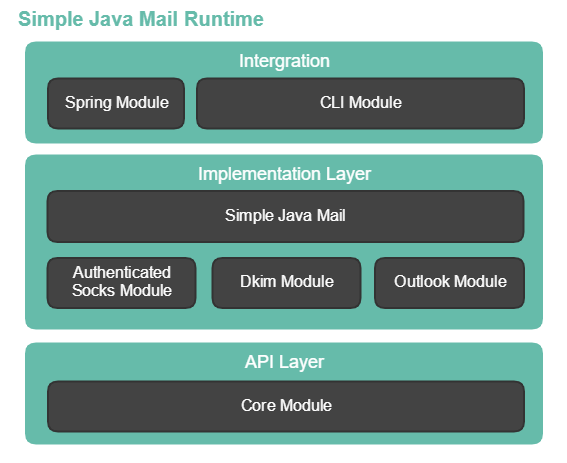
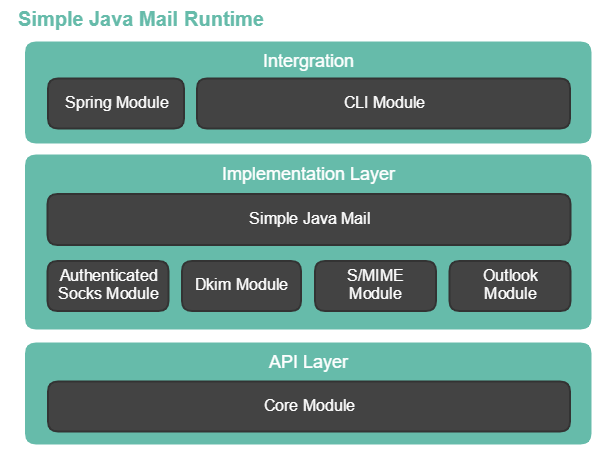
#187: Added documentation on S/MIME support

diff --git a/src/app/components/features/features.html b/src/app/components/features/features.html
@@ -57,6 +57,9 @@
       <li><a simplePageScroll href="#section-return-receipt">Configure delivery / read receipt</a></li>
       <li><a simplePageScroll href="#section-email-validation">Validating Email Addresses</a></li>
       <li><a simplePageScroll href="#section-converting">Converting between email formats</a></li>
+      <li><a simplePageScroll href="#section-smime">Reading S/MIME signed / encrypted attachments</a></li>
+        <li><a simplePageScroll href="#section-smime-merging" class="indent">S/MIME signed messages are merged by default</a></li>
+        <li><a simplePageScroll href="#section-smime-decryption" class="indent">Decrypting S/MIME attachments using certificate</a></li>
       <li><a simplePageScroll href="#section-bouncing-emails">Setting custom recipient for bouncing emails</a></li>
       <li><a simplePageScroll href="#section-reply-forward">Replying to and forwarding emails</a></li>
       <li><a simplePageScroll href="#section-proxy">Send using a proxy</a></li>
@@ -630,11 +633,11 @@ Session session = mailer.getSession();
 </code></pre>
     </div>
   </section>
-
-
+  
+  
   <a href="#section-dkim" id="section-dkim" class="section-link h2">&sect;</a>
   <h2>Signing emails with DKIM</h2>
-
+  
   <section>
     <div class="view">
       <p>
@@ -642,14 +645,7 @@ Session session = mailer.getSession();
         domain keys. It uses <a href="https://github.com/markenwerk/java-utils-mail-dkim">java-utils-mail-dkim</a> (dependency packaged along) to
         perform the DNS DKIM record check on the given domain.
       </p>
-      <p>DKIM is an optional feature and if you want to use it, you need to include the following dependency in your project:</p>
-      <pre><code class="small language-xml">&lt;dependency&gt;
-    &lt;groupId&gt;net.markenwerk&lt;/groupId&gt;
-    &lt;artifactId&gt;utils-mail-dkim&lt;/artifactId&gt;
-    &lt;version&gt;X.X.X&lt;/version&gt;
-&lt;/dependency&gt;</code></pre>
     </div>
-
     <div class="side">
 <pre><code>currentEmailBuilder.
     .signWithDomainKey(
@@ -662,6 +658,89 @@ mailer.sendMail(signedEmail);
       You can also directly use the helper method:
       <pre><code>Mailer.signMessageWithDKIM(mimeMessageToSign, emailContainingSigningDetails);</code></pre>
     </div>
+  </section>
+  
+  
+  <a href="#section-smime" id="section-smime" class="section-link h2">&sect;</a>
+  <h2>Reading S/MIME signed / encrypted attachments</h2>
+  
+  <section>
+    <div class="view">
+      <p>
+        Simple Java Mail can automatically decrypt
+        <a href="https://docs.ipswitch.com/moveit/central/onlineguide/en/MICSMIMEEmailOverview.htm">S/MIME signed messages</a>
+        or attachment and has some useful extras such as providing you with the metadata:
+      </p>
+      <p>S/MIME is an optional feature and if you want to use it, you need to include the following dependency in your project:</p>
+      <pre><code class="small language-xml">&lt;dependency&gt;
+    &lt;groupId&gt;org.simplejavamail&lt;/groupId&gt;
+    &lt;artifactId&gt;smime-module&lt;/artifactId&gt;
+    &lt;version&gt;X.X.X&lt;/version&gt;
+&lt;/dependency&gt;</code></pre>
+    </div>
+    <div class="side">
+<pre><code class="small">Email mergedEmail = EmailConverter.outlookMsgToEmail("yourSMIMEEncryptedMessage.msg"); // or
+Email mergedEmail = EmailConverter.emlToEmail("yourSMIMEEncryptedMessage.eml");
+
+// all attachments as-is:
+mergedEmail.getAttachments(); // smime.p7m, my-doc.docx
+// all attachments with the encrypted ones replaced:
+mergedEmail.getDecryptedAttachments(); // signed-email.eml, my-doc.docx
+
+// if the message itself was signed (rather than a independently signed attachment):
+OriginalSmimeDetails details = mergedEmail.getOriginalSmimeDetails();
+details.getSmimeMime(); // application/pkcs7-mime
+details.getSmimeType(); // signed-data, enveloped-data
+details.getSmimeName(); // smime.p7m
+details.getSmimeSignedBy(); // certificate-owner@domain.com
+</code></pre>
+    </div>
+  </section>
+  
+  
+  <a href="#section-smime-merging" id="section-smime-merging" class="section-link h3">&sect;</a>
+  <h3>S/MIME signed messages are merged by default</h3>
+  
+  <section>
+    <div class="view">
+      <p>
+        As an S/MIME signed message is actually nested as an attachment, the default behavior is to merge the S/MIME signed content into the root message.
+        This only happens if there was exactly one S/MIME signed attachment and the decrypted version is of type "message/rfc822".
+      </p>
+      <p>
+        This default behavior can be deactivated. For your convenience, the decrypted message is available as a separate Email instance:
+      </p>
+    </div>
+    
+    <div class="side">
+<pre><code class="small">Email nonMergedEmail = EmailBuilder
+                .copying(mergedEmail)
+                .clearSMIMESignedAttachmentMergingBehavior()
+                .buildEmail();
+  
+// or by configuring the intermediary builder:
+emailBuilder = EmailConverter.outlookMsgToEmailBuilder(msgFile); // or
+emailBuilder = EmailConverter.emlToEmailBuilder(emlFile);
+Email nonMergedEmail = emailBuilder
+                .notMergingSingleSMIMESignedAttachment()
+                .buildEmail();</code></pre>
+      You always have access to the nested decrypted message:
+      <pre><code class="small">mergedEmail.getSmimeSignedEmail();
+nonMergedEmail.getSmimeSignedEmail();
+</code></pre>
+    </div>
+  </section>
+  
+  
+  <a href="#section-smime-decryption" id="section-smime-decryption" class="section-link h3">&sect;</a>
+  <h3>Decrypting S/MIME attachments using certificate</h3>
+  
+  <section>
+    <p class="wide">
+      Under the hood, Simple Java Mail uses
+      <a href="https://github.com/markenwerk/java-utils-mail-smime">net.markenwerk:utils-mail-smime</a>
+      for S/MIME handling. For decryption using certificates, please refer to the instructions there.
+    </p>
   </section>
 
 

diff --git a/src/app/components/modules/modules.html b/src/app/components/modules/modules.html
@@ -81,6 +81,26 @@
     </ul>
   </section>
 
+  <h2>S/MIME support</h2>
+
+  <section>
+    <p>
+      To enable support for reading <a href="https://docs.ipswitch.com/moveit/central/onlineguide/en/MICSMIMEEmailOverview.htm">S/MIME</a>
+      signed / encrypted email, (see <a [routerLink]="['/features']" simplePageScroll href="#section-smime">Features</a>),
+      include the following library:
+    </p>
+    <pre><code class="language-xml">&lt;dependency&gt;
+    &lt;groupId&gt;org.simplejavamail&lt;/groupId&gt;
+    &lt;artifactId&gt;smime-module&lt;/artifactId&gt;
+&lt;/dependency&gt;</code></pre>
+    <p>
+      This adds the following 3rd party dependencies:
+    </p>
+    <ul>
+      <li><a class="indent" href="https://github.com/markenwerk/java-utils-mail-smime">net.markenwerk:utils-mail-smime</a></li>
+    </ul>
+  </section>
+
   <h2>CLI support</h2>
 
   <section>

diff --git a/src/app/components/about/about.html b/src/app/components/about/about.html
@@ -73,6 +73,8 @@ mailer.getProxyConfig();
 mailer.getTransportStrategy();
 mailer.getSession();
 mailer.getEmailAddressCriteria();</code></pre>
+      S/MIME signed Outlook messages? No problem!
+      <pre><code class="small">Email email = EmailConverter.outlookMsgToEmail("smimeSignedEmail.msg");</code></pre>
     </div>
   </section>
 
